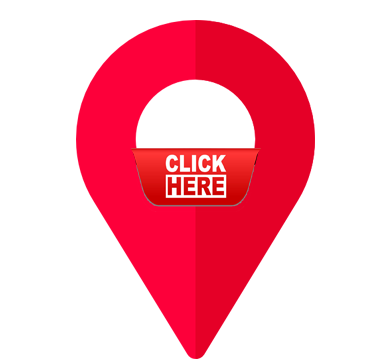
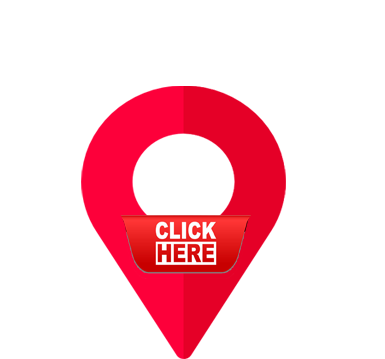
first commit iu

Changed region(s): [[0.187, 0.0306, 0.8416, 1.0]]

diff --git a/index.html b/index.html
@@ -44,7 +44,7 @@
               <a-image src="#invitation" position="0 0 0.06" width="3" height="4" side="double"></a-image>
                 <a-image src="#map" position="0 0 -0.06" width="3" height="4" side="double"></a-image>                
             </a-box>
-            <a-image src="#loc" position="0 0 -4" rotation="0 1 0" scale="0.5 0.5 0" id="map_loc" visible="false" map_loc_entity></a-image>
+            <a-image src="#loc" position="0 0 -4" rotation="0 1 0" scale="0.6 0.6 0" id="map_loc" visible="false" map_loc_entity></a-image>
             <!-- <a-image src="#loc" position="0 0 -4" rotation="0 1 0" width="0.7" height="0.8" side="double"></a-image> -->
             
             <a-camera >
